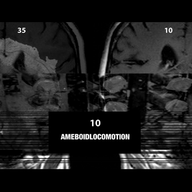
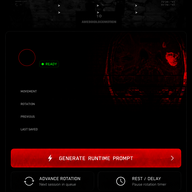
V4.15.0

diff --git a/index.html b/index.html
@@ -438,6 +438,83 @@ h3,
   }
 }
 
+
+/* V4.15.0 DATA tab minimal panel fix */
+#settingsPanel{
+  overflow-y:auto !important;
+  overflow-x:hidden !important;
+  -webkit-overflow-scrolling:touch !important;
+  touch-action:pan-y !important;
+}
+#settingsPanel .card{
+  background:rgba(0,0,0,.60) !important;
+  border:0 !important;
+  border-radius:0 !important;
+  box-shadow:none !important;
+}
+#settingsPanel h2{
+  color:#ff0000 !important;
+  opacity:1 !important;
+  filter:none !important;
+}
+#settingsPanel select{
+  display:block !important;
+  width:100% !important;
+  margin:10px 0 14px !important;
+  color:#e8e8e8 !important;
+  background:rgba(0,0,0,.60) !important;
+  border:0 !important;
+  border-radius:0 !important;
+  padding:10px !important;
+}
+#settingsPanel button{
+  background:rgba(0,0,0,.60) !important;
+  border:0 !important;
+  border-radius:0 !important;
+  box-shadow:none !important;
+}
+#settingsPanel .actions{
+  display:flex !important;
+  gap:8px !important;
+  flex-wrap:wrap !important;
+}
+#settingsPanel .actions button{
+  flex:1 1 auto !important;
+}
+
+
+/* V4.15.0 DATA tab fix2 runtime compatibility */
+.compat-settings{
+  display:none !important;
+}
+#settingsPanel #recordMonth{
+  display:block !important;
+  visibility:visible !important;
+  opacity:1 !important;
+  width:100% !important;
+  min-height:36px !important;
+  margin:10px 0 14px !important;
+  color:#e8e8e8 !important;
+  background:rgba(0,0,0,.60) !important;
+  border:0 !important;
+  border-radius:0 !important;
+  padding:10px !important;
+}
+
+
+/* V4.15.0 DATA final button color order */
+#settingsPanel .actions button{
+  color:#e8e8e8 !important;
+  opacity:1 !important;
+  filter:none !important;
+}
+
+#settingsPanel .actions button.redbtn{
+  color:#ff0000 !important;
+  opacity:1 !important;
+  filter:none !important;
+}
+
 </style>
 </head>
 <body>
@@ -530,19 +607,16 @@ h3,
 </section>
 <section id="settingsPanel" class="panel">
   <div class="card">
-    <h2 class="panel-title">SETTINGS</h2>
-    <label>Rotation index</label>
-    <input type="number" id="rotationIndex" min="0">
-    <label>Rotation JSON</label>
-    <textarea id="rotationJson"></textarea>
-    <button class="panel-btn redbtn" onclick="saveRotation()">SAVE ROTATION</button>
-    <label>Lines JSON</label>
-    <textarea id="linesJson"></textarea>
-    <button class="panel-btn redbtn" onclick="saveLines()">SAVE LINES</button>
+    <div class="compat-settings" aria-hidden="true" style="display:none">
+      <input type="number" id="rotationIndex" min="0">
+      <textarea id="rotationJson"></textarea>
+      <textarea id="linesJson"></textarea>
+    </div>
+    <h2>DATA</h2>
     <select id="recordMonth"></select>
     <div class="actions">
-      <button onclick="exportData()">EXPORT JSON</button>
-      <button class="redbtn" onclick="copyRecordMonth()">COPY RECORD</button>
+      <button class="redbtn" onclick="exportData()">EXPORT JSON</button>
+      <button onclick="copyRecordMonth()">COPY RECORD</button>
       <button onclick="closePanels()">CLOSE</button>
     </div>
   </div>
@@ -1096,7 +1170,14 @@ ${buildPlan(nextMeta())}
   toast("Loaded");
 }
 function deleteLog(id){if(!confirm("Delete this log?")) return; state.logs=state.logs.filter(x=>x.id!==id); persist(); render(); toast("Deleted");}
-function fillSettings(){document.getElementById("rotationIndex").value=state.rotationIndex; document.getElementById("rotationJson").value=JSON.stringify(state.rotation,null,2); document.getElementById("linesJson").value=JSON.stringify(state.lines,null,2);}
+function fillSettings(){
+  const rotationIndex=document.getElementById("rotationIndex");
+  const rotationJson=document.getElementById("rotationJson");
+  const linesJson=document.getElementById("linesJson");
+  if(rotationIndex) rotationIndex.value=state.rotationIndex;
+  if(rotationJson) rotationJson.value=JSON.stringify(state.rotation,null,2);
+  if(linesJson) linesJson.value=JSON.stringify(state.lines,null,2);
+}
 function saveRotation(){try{state.rotationIndex=Number(document.getElementById("rotationIndex").value)||0; state.rotation=JSON.parse(document.getElementById("rotationJson").value); persist(); render(); toast("Rotation saved");}catch(e){toast("Invalid JSON")}}
 function saveLines(){try{state.lines=JSON.parse(document.getElementById("linesJson").value); persist(); render(); toast("Lines saved");}catch(e){toast("Invalid JSON")}}
 function fillRecordMonths(){

diff --git a/README.md b/README.md
@@ -297,3 +297,27 @@ Patch note: BASE.png regenerated from uploaded PSD source; ovBuild overlay retai
 - Fixed mobile SETTINGS panel vertical scrolling.
 - Restored touch pan-y and momentum scroll for active panels.
 - Root page scroll suppression remains; inner panel scroll remains active.
+
+## V4.15.0 data-tab-fix
+- Rebuilt from known-good mobile-scrollfix base.
+- Visible build / storage / cache unchanged.
+- Replaced BASE.png from uploaded DATA PSD.
+- Changed visible SET/SETTINGS presentation to DATA without touching function/id names.
+- Settings panel content safely simplified to month selector + EXPORT JSON / COPY RECORD / CLOSE.
+- Fixed previous DOM break that removed slot text and hid month selector.
+- PSD conversion: ImageMagick
+- BASE size: 941 × 1900
+
+## V4.15.0 data-tab-fix2
+- Visible build / storage / cache unchanged.
+- Fixed runtime error caused by removing internal settings fields.
+- Kept hidden compatibility fields for rotationIndex / rotationJson / linesJson.
+- Made fillSettings() null-safe.
+- DATA panel remains visually minimal: month selector + EXPORT JSON / COPY RECORD / CLOSE.
+- Slot text and month selector rendering restored.
+
+## V4.15.0 data-tab-final
+- Visible build / storage / cache unchanged.
+- DATA panel button color order finalized.
+- EXPORT JSON is red.
+- COPY RECORD is white.